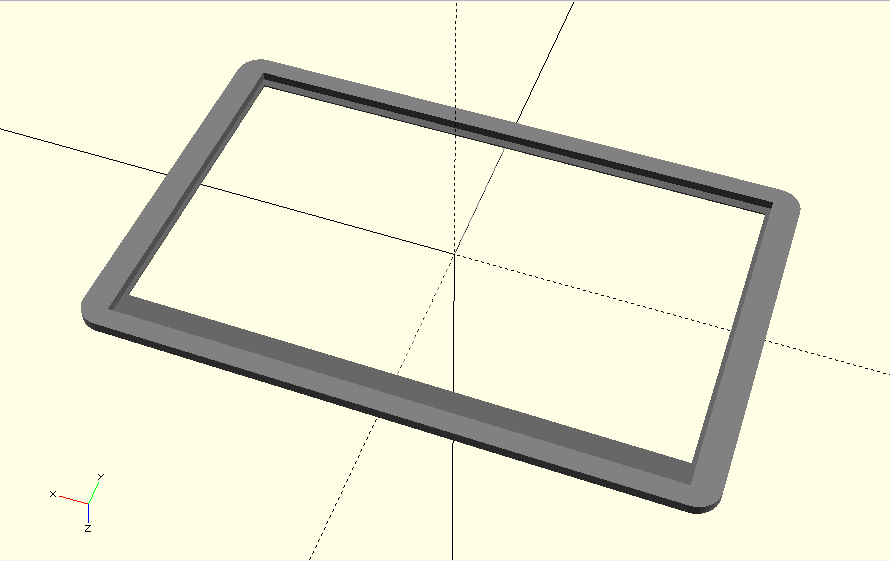
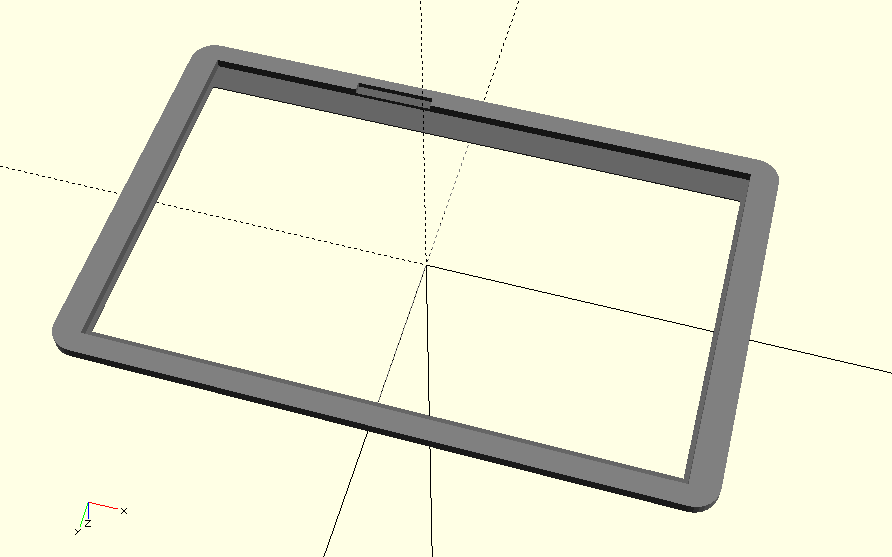
improve 3d models with apertures and related documentation

diff --git a/3d/display_model.py b/3d/display_model.py
@@ -17,7 +17,7 @@ active_h = 193.59
 
 pcba_t = thickness + 0.4
 pcba_w = 281.5
-pcba_h = 216.5 - outline_h - pcba_t / 2.0
+pcba_h = 216.5 - outline_h #- pcba_t / 2.0
 pcba_offset = 9.0
 
 fpc_conn_w = 40 * 0.5 #40 pin connector 0.5" pitch
@@ -25,9 +25,9 @@ fpc_conn_h = 2.5
 
 pin1_offset = 5.0
 connector_w = fpc_conn_w + pin1_offset*2
-connector_h = 10.0
+connector_h = 12.0
 connector_offset_h = 110.16 - pin1_offset
-connector_offset_v = 0.5
+connector_offset_v = -thickness
 
 # Colors
 outline_color	= color([0.8, 0.8, 0.85])
@@ -37,10 +37,18 @@ pcba_color		= color([0.3, 0.3, 0.35])
 tape_color		= color([1.0, 0.3, 0.1])
 connector_color	= color([0.25, 0.55, 0.3])
 backlight_color = color([1.0, 1.0, 1.0])
+fpc_conn_color	= color([.9,.8,0.35])
 
 def make_front():
     outline = cube(size=[outline_w, outline_h, thickness], center=True)
     outline = outline_color.add(outline).comment("Outline")
+
+    # Backlight zone
+    backlight = rounded_rect(outline_w - 30.0*2, outline_h - 30.0*2, 16.3, .5)
+    backlight = translate(v=[0, 0, -thickness / 2.0]).add(backlight)
+    backlight = backlight_color.add(backlight).comment("Backlight")
+
+    outline -= backlight
 
     # Polarizer layer
     polarizer = cube(size=[polarizer_w, polarizer_h, 0.3], center=True)
@@ -66,34 +74,28 @@ def make_front():
     pcba = union().add(pcba).add(edge_cyl)
     pcba = pcba_color.add(pcba).comment("PCB Assembly")
 
-    return [outline, polarizer, active_area, pcba, tape]
-
-def make_back():
-    # Bottom connector hole area
-    conn = cube(size=[connector_w, connector_h, 0.5], center=False)
+    # Bottom connector aperture
+    conn = cube(size=[connector_w, connector_h, 1], center=False)
     conn = translate(v=[-outline_w/2 + connector_offset_h,
                         -outline_h / 2.0 - pcba_h + connector_offset_v,
                         -thickness / 2.0 - 0.5]).add(conn)
     conn = connector_color.add(conn).comment("Connector")
-    
-    #FPC connector inside connector
+
+    pcba -= conn
+
+    # FPC connector inside connector
     fpc_conn = cube(size=[fpc_conn_w, fpc_conn_h, 0.5], center=True)
     fpc_conn = translate(v=[-outline_w/2 + connector_offset_h + connector_w/2,
                         -outline_h / 2.0 - pcba_h/2 + connector_offset_v,
-                        -thickness / 2.0 - 0.5]).add(fpc_conn)
-    fpc_conn = color([.9,.8,0.35]).add(fpc_conn).comment("FPC Connector")
+                        -thickness / 2.0]).add(fpc_conn)
+    fpc_conn = fpc_conn_color.add(fpc_conn).comment("FPC Connector")
 
-    # Backlight zone
-    backlight = rounded_rect(outline_w - 30.0*2, outline_h - 30.0*2, 16.3)
-    backlight = translate(v=[0, 0, -thickness / 2.0 - 0.15]).add(backlight)
-    backlight = backlight_color.add(backlight).comment("Backlight")
-
-    return [backlight, conn, fpc_conn]
+    return [outline, polarizer, active_area, pcba, fpc_conn, tape]
 
 
 def make_panel():
     panel = union()
-    for part in make_front() + make_back():
+    for part in make_front():
         panel.add(part)
     return panel.comment("Panel")
 

diff --git a/3d/display_bezel.py b/3d/display_bezel.py
@@ -30,6 +30,7 @@ def make_bezel():
     display_aperture = cube(size=[display_w, display_h, bezel_thickness], center=True)
     display_aperture = translate(v=[0, -pcba_h/2, -bezel_thickness/2+-front_thichness]).add(display_aperture)
     display_aperture += cube(size=[active_w, active_h, front_thichness*2.1], center=True)
+    display_aperture += translate(v=[-display_w/2+120, -(display_h+pcba_h)/2, -bezel_thickness]).add(cube(size=[50, pcba_h, bezel_thickness], center=True))
     display_aperture = aperture_color.add(display_aperture)
     
     outline -= display_aperture

diff --git a/3d/pyopenscad.py b/3d/pyopenscad.py
@@ -497,7 +497,7 @@ for sym_dict in openscad_builtins:
     
 # helpers
 
-def rounded_rect(w, h, r, thickness=0.2, segments=32):
+def rounded_rect(w, h, r, thickness, segments=32):
     u = union()
     u.add(cube(size=[w - 2 * r, h, thickness], center=True))
     u.add(cube(size=[w, h - 2 * r, thickness], center=True))

diff --git a/3d/WORKFLOW.md b/3d/WORKFLOW.md
@@ -10,7 +10,7 @@ The criteria for the selection of a tool for the 3D design was motivated by the 
 4. The tool should be open source.
 
 To satisfy constraints 2 and 3, the best route would be to do the modelling using _source code_ which generates the models in standard formats. Python is a powerful language for any source-based design.  
-To satisfy constraints 1 and 4, a simple OpenSCAD generator python library was selected since it requires **no installation** and [LGPL](https://spdx.org/licenses/LGPL-2.1-or-later.html) licensed. The only need is to put the [pyopenscad.py](pyopenscad.py) file in same directory, and have python installed. The library was migrated to python3 (originally was for python2).  
+To satisfy constraints 1, a simple OpenSCAD generator python library was selected (which is a [precursor](https://github.com/SolidCode/SolidPython/blob/ea9411ff6f5d95fcb1fb00476b07fa9996d5ba33/solid/solidpython.py) of SolidPython and SolidPython2). Since a single file, it requires **no installation** and is [LGPL](https://spdx.org/licenses/LGPL-2.1-or-later.html) licensed to satisfy constraint 4. The only need is to put the [pyopenscad.py](pyopenscad.py) file in same directory, and have python installed. The library was migrated to python3 (originally was for python2).  
 The approach results similar approach to the way of designing the FPGA gateware for the project, where python scripts generates Verilog files allowing a high degree of flexibility.   
 
 ## Workflow
